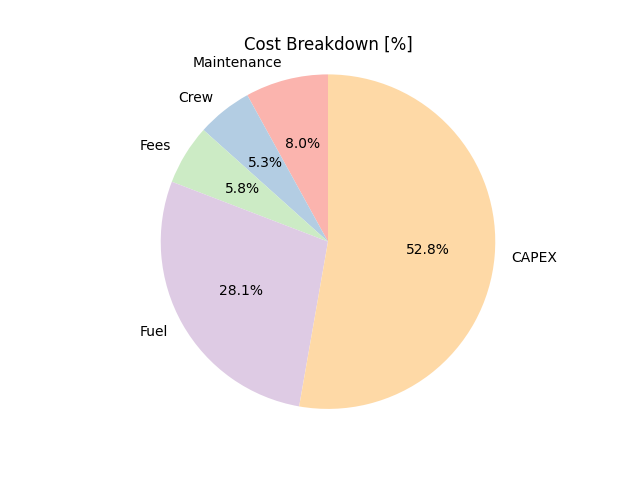
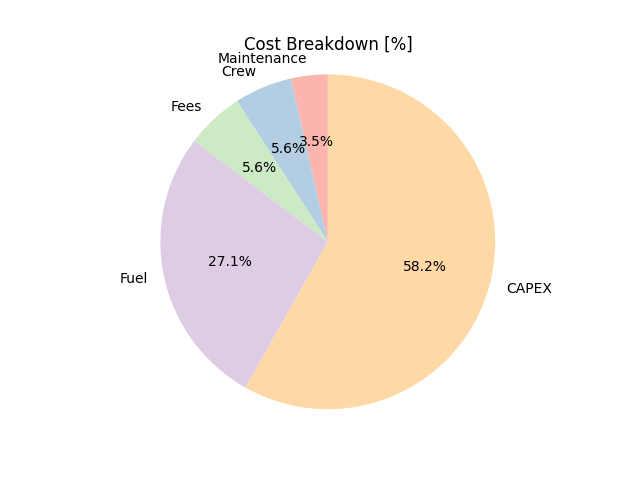
DOC to main

diff --git a/conceptualDesign/marketStuff.py b/conceptualDesign/marketStuff.py
@@ -74,7 +74,7 @@ def marketStuff(params):
     # TODO: Revise Pac calc. Should the other masses be subtracted from OEW?
     a = IR * (1 - f_rv * (1 / (1 + IR)) ** DP) / (1 - (1 / (1 + IR)) ** DP)
     Pac = (P_OEW * (OEW - W_eng * params["engineCount"]) + W_eng * params["engineCount"] * P_eng + params[
-        "tankMass"] * P_tank + params["fuelcellMass"] * P_fc) * (1 + PMac + f_misc)
+        "balloonStructuralMass"] * P_tank + params["fuelcellMass"] * P_fc) * (1 + PMac + f_misc)
     DOC_cap = Pac * (a + f_ins)
 
     # print(Pac)
@@ -100,8 +100,8 @@ def marketStuff(params):
     plt.pie(breakdown, labels=mylabels, autopct='%1.1f%%', colors=colors, startangle=90)
     plt.title("Cost Breakdown [%]")
     plt.axis('equal')
-    plt.savefig("..\plots\CostBreakdown")
-    plt.show()
+    plt.savefig("plots\CostBreakdown")
+    # plt.show()
 
 
 if __name__ == "__main__":

diff --git a/main.py b/main.py
@@ -3,7 +3,7 @@ from misc.openData import openData
 from misc.materials import load_materials
 import matplotlib.pyplot as plt
 from tqdm import tqdm
-from designSpace import optimize_altitude
+# from designSpace import optimize_altitude
 import pandas as pd
 
 
